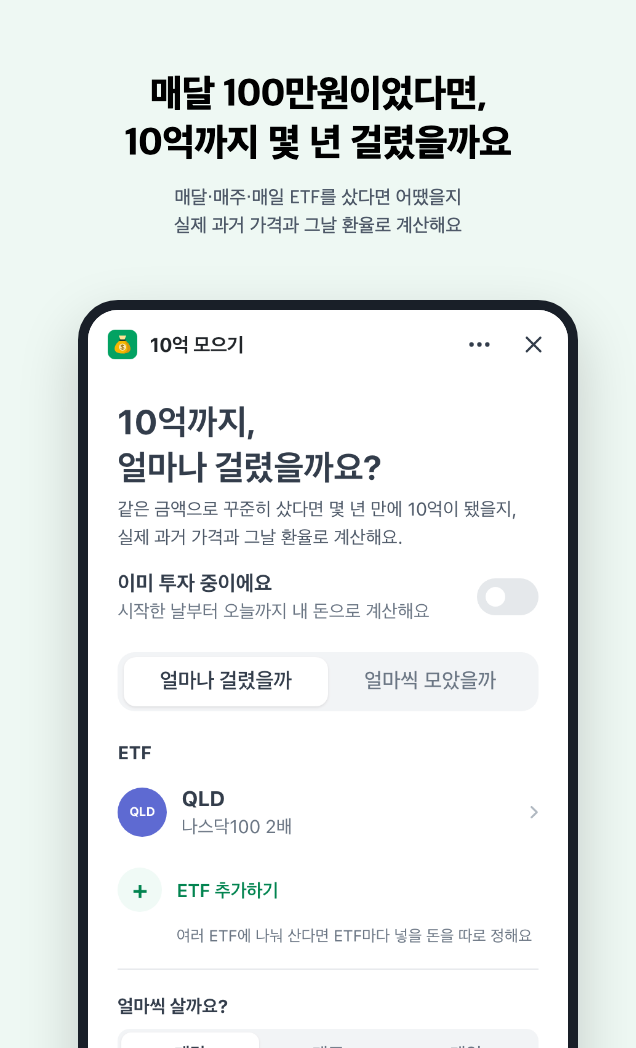
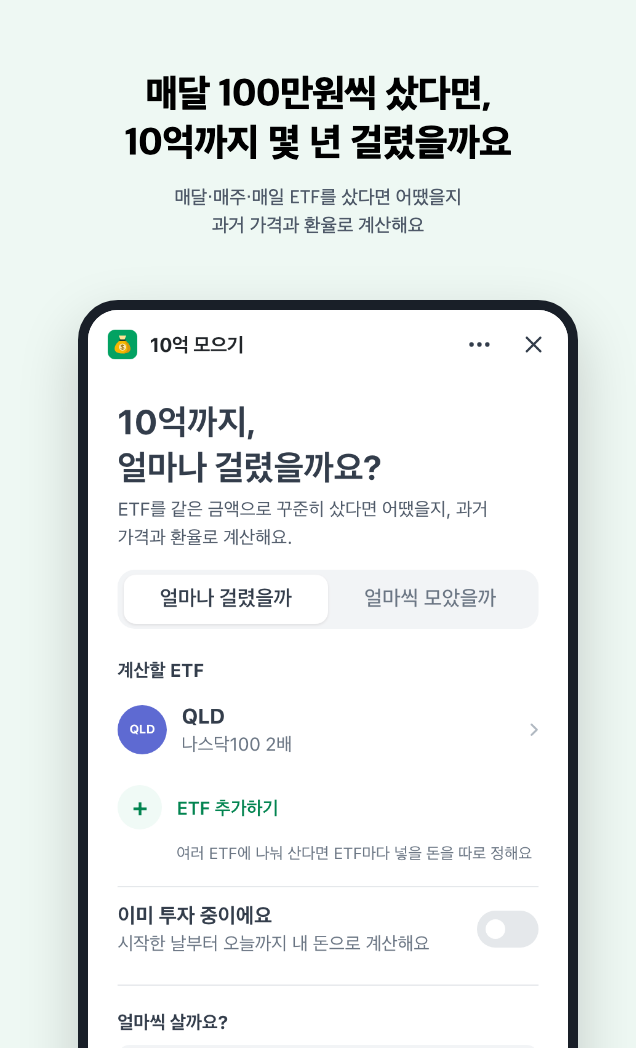
fix(toss): 잔여 문구 정리(CTA 예시·홈 시계 바로가기) + 스토어 이미지 재생성

diff --git a/toss/src/screens/InputScreen.tsx b/toss/src/screens/InputScreen.tsx
@@ -55,7 +55,7 @@ export function InputScreen({ plan, setPlan, onSubmit, adNeeded = false, hasCloc
       />
       {hasClock && (
         <button type="button" className="clock-link" onClick={goClock}>
-          <span>내 10억 시계가 오늘 숫자를 준비했어요</span><span className="brand-text">보기</span>
+          <span>저장한 내 10억 시계가 있어요</span><span className="brand-text">보기</span>
         </button>
       )}
 

diff --git a/toss/UX_WRITING.md b/toss/UX_WRITING.md
@@ -86,7 +86,7 @@
 | 모드 토글 | 걸리는 기간 / 넣을 돈 | 얼마나 걸렸을까 / 얼마씩 모았을까 (10/22) | 두 탭이 대등한 질문으로 읽히게. 과거 시뮬레이션이라 과거형(미래 예측처럼 읽히면 안 됨). 제목도 "얼마나 걸렸을까요?" / "얼마씩 모았어야 했을까요?" |
 | 결과 문구 | …에 10억을 넘었어요(오늘 날짜) | …에 처음 10억을 넘었어요 + 오늘은 N억이에요 / 지금은 N억으로 내려왔어요 (10/22) | 기간은 처음 도달까지, 오늘 금액은 따로 정직하게 |
 | 입력 라벨 | 매달 넣을 금액 · 시작할 때 넣을 목돈 (없으면 0) | 매달 넣을 돈 · 처음에 넣을 목돈 + 칩 "없어요" | 쉬운 말, 괄호 제거 |
-| 시계 안내 | 저장한 내 10억 시계가 있어요 · 보러 가기 | 내 10억 시계가 오늘 숫자를 준비했어요 · 보기 | 감정 공감(원칙 8), 짧은 행동 |
+| 시계 안내 | 저장한 내 10억 시계가 있어요 · 보러 가기 | 저장한 내 10억 시계가 있어요 · 보기 (10/22 되돌림) | "오늘 숫자를 준비했어요"는 그날 갱신을 약속하는 말이라 사실만 |
 | 결과 lead | QLD에 매달 100만원, 매달 1일 · 10억 모으기까지 | 10억 모으는 데 걸린 시간 | 한 문장 한 메시지. 조건은 sub로 |
 | 결과 sub | 2015년 8월부터 샀다면 2026년 10월 16일에 10억을 넘었어요 | 2015년 8월부터 매달 1일에 QLD를 100만원어치 샀다면, 2026년 10월 16일에 10억을 넘었어요 | 조건을 자연어 한 문장으로 |
 | 미달 lead | …아직 10억은 멀어요 | 아직 10억은 멀어요 | DESIGN.md 확정 카피 유지 |
